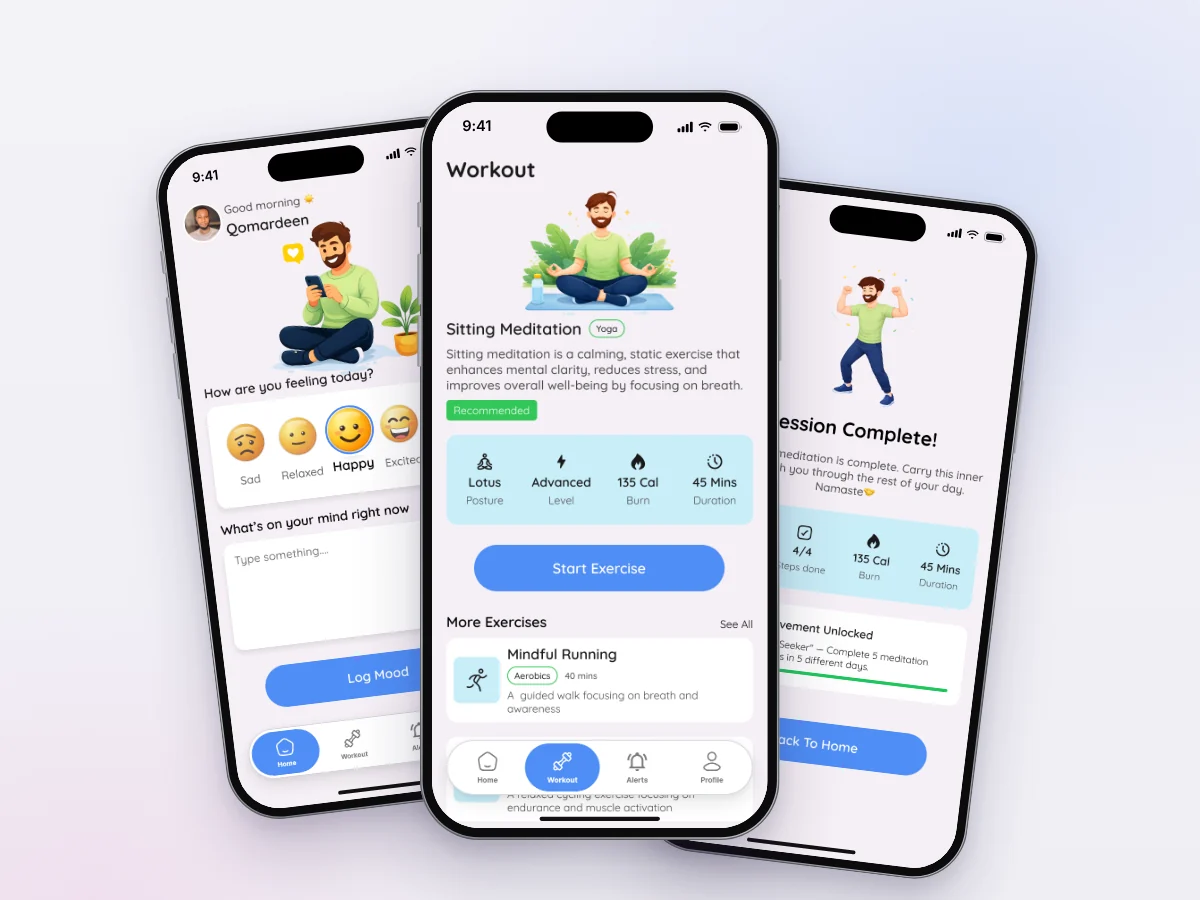
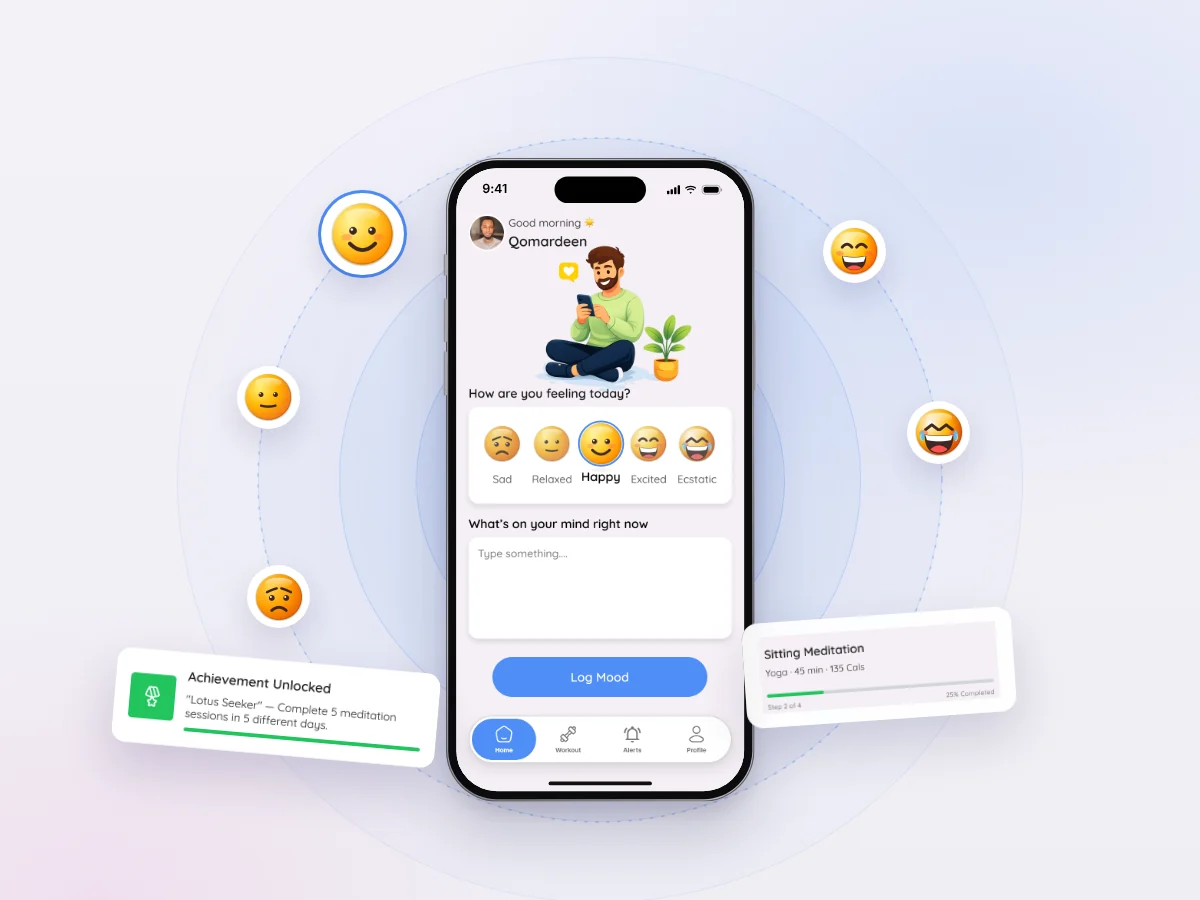
Unwind: new "breathe" cover and Projects card
One phone at the centre of soft breathing rings, the five moods orbiting it,
and the progress and achievement cards floating free, instead of the
three-phone fan used on the other case studies. Alt text updated.

Audit: typecheck, lint, both builds, lockfiles (npm and bun), unit tests and a
route smoke test in both themes at 1440 and 375 all pass; no code changes needed.

Claude-Session: https://claude.ai/code/session_01687LJmcDPphTdHwvbN76iy

diff --git a/src/content/builtInCaseStudies.ts b/src/content/builtInCaseStudies.ts
@@ -318,7 +318,7 @@ export const LEAFIE_CASE_STUDY: BuiltInCaseStudy = {
 // "Unwind" is a working name; the page address stays /projects/wellness.
 const UNWIND_PROTOTYPE = 'https://www.figma.com/proto/xFT0ynq0VdlT2DLoQJFJIh?node-id=36-509&starting-point-node-id=36%3A509';
 const unwindFrames = [
-  { src: wCover, alt: 'Unwind, a mood and mindfulness app: the home, workout and session complete screens', label: 'Cover' },
+  { src: wCover, alt: 'Unwind, a mood and mindfulness app: the Home screen inside breathing rings, the five moods around it, with the progress and achievement cards floating free', label: 'Cover' },
   { src: wFlow, video: wFlowVideo, alt: 'The four screens in order: check in, pick a session, follow the steps, done', label: 'From check-in to done' },
   { src: wCheckin, video: wCheckinVideo, alt: 'Home screen picking a mood, adding a note and logging it, next to the mood and note field states', label: 'How are you feeling?' },
   { src: wSteps, video: wStepsVideo, alt: 'Exercise steps ticking off one by one, next to the session complete screen', label: 'One step at a time' },
